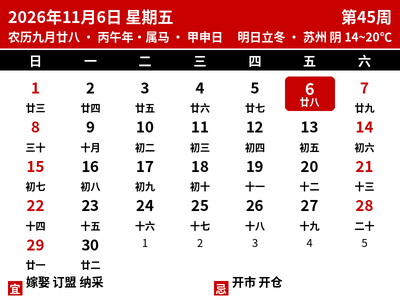
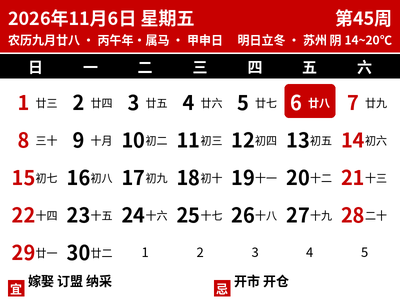
host: enlarge calendar fonts; lunar beside number; band text auto-fit

diff --git a/host/calendar_card.py b/host/calendar_card.py
@@ -139,17 +139,16 @@ def draw():
     weekend = date.weekday() >= 5
 
     # ---------- header: red band (2 lines, white text) ----------
-    BAND_H = 48
+    BAND_H = 52
     R(0, 0, W, BAND_H, RED)
     wd_s = f"星期{WEEKDAYS[date.weekday()]}"
-    T(8, 16, f"{date.year}年{date.month}月{date.day}日 {wd_s}", 16, WHITE,
+    T(8, 17, f"{date.year}年{date.month}月{date.day}日 {wd_s}", 18, WHITE,
       anchor="lm")
-    T(W - 8, 16, f"第{iso[1]}周", 16, WHITE, anchor="rm")
+    T(W - 8, 17, f"第{iso[1]}周", 18, WHITE, anchor="rm")
     ly_gz = today_lunar.getYearInGanZhi()
     dy_gz = today_lunar.getDayInGanZhi()
-    T(8, 36, f"农历{today_lunar.getMonthInChinese()}月{today_lunar.getDayInChinese()}"
-             f" · {ly_gz}年·属{ZODIAC[ZHI.index(ly_gz[1])]} · {dy_gz}日",
-      12, WHITE, anchor="lm")
+    left2 = (f"农历{today_lunar.getMonthInChinese()}月{today_lunar.getDayInChinese()}"
+             f" · {ly_gz}年·属{ZODIAC[ZHI.index(ly_gz[1])]} · {dy_gz}日")
     term_s = ""
     nq = today_lunar.getNextJieQi(True)
     if nq:
@@ -161,25 +160,33 @@ def draw():
     wx = None if a.no_weather else get_weather(a.city)
     wx_s = f"{wx['city']} {wx['desc']} {wx['lo']}~{wx['hi']}℃" if wx else ""
     right2 = " · ".join(x for x in (term_s, wx_s) if x)
+    fsz = 13
+    while fsz > 10 and \
+            (d.textlength(right2, font=font(fsz, True)) +
+             d.textlength(left2, font=font(fsz, True))) / SCALE > W - 24:
+        fsz -= 1
+    T(8, 39, left2, fsz, WHITE, anchor="lm")
     if right2:
-        T(W - 8, 36, right2, 12, WHITE, anchor="rm")
+        T(W - 8, 39, right2, fsz, WHITE, anchor="rm")
 
     # ---------- weekday band: black, white ----------
     WB_Y = BAND_H + 2
     colw = (W - 16) / 7.0
-    R(0, WB_Y, W, WB_Y + 20, BLACK)
+    R(0, WB_Y, W, WB_Y + 24, BLACK)
     for i, ch in enumerate(HEADERS):
         cx = 8 + colw * i + colw / 2
-        T(cx, WB_Y + 10, ch, 13, WHITE, anchor="mm")
+        T(cx, WB_Y + 12, ch, 15, WHITE, anchor="mm")
 
     # ---------- month grid ----------
     first = date.replace(day=1)
     start = first - dt.timedelta(days=(first.weekday() + 1) % 7)  # Sunday
     last = (first.replace(day=_cal.monthrange(date.year, date.month)[1]))
     rows_needed = ((last - start).days // 7) + 1
-    grid_y = WB_Y + 24
-    foot_h = 24
-    rowh = (H - foot_h - 6 - grid_y) / rows_needed
+    grid_y = WB_Y + 28
+    foot_h = 26
+    rowh = (H - foot_h - 4 - grid_y) / rows_needed
+    num_font = 20 if rows_needed <= 5 else 18
+    lunar_font = 13 if rows_needed <= 5 else 12
 
     for r in range(rows_needed):
         for c in range(7):
@@ -191,35 +198,41 @@ def draw():
             cl = Solar.fromYmd(cell.year, cell.month, cell.day).getLunar()
 
             if is_today:
-                # red filled cell, white number + white lunar
-                m = 2.5
+                # red filled cell, white number + lunar beside it
+                m = 2
                 d.rounded_rectangle(
                     [(8 + colw * c + m) * SCALE, (top + m) * SCALE,
                      (8 + colw * (c + 1) - m) * SCALE, (top + rowh - m) * SCALE],
                     radius=4 * SCALE, fill=RED)
-                T(cx, top + rowh * 0.36, str(cell.day), 16, WHITE, anchor="mm")
-                T(cx, top + rowh * 0.70, lunar_text(cl), 10, WHITE, anchor="mm")
+                half = colw / 2
+                T(cx - half / 2, top + rowh / 2, str(cell.day), num_font,
+                  WHITE, anchor="mm")
+                T(cx - half / 2 + 12, top + rowh / 2 + 1, lunar_text(cl),
+                  lunar_font - 2, WHITE, anchor="lm")
             elif in_month:
                 col = RED if cell.weekday() >= 5 else BLACK
-                T(cx, top + 2, str(cell.day), 15, col, anchor="ma")
-                T(cx, top + rowh - 13, lunar_text(cl), 10,
-                  BLACK, anchor="ma", bold=True)
+                half = colw / 2
+                T(cx - half / 2 + 2, top + rowh / 2, str(cell.day), num_font,
+                  col, anchor="mm")
+                T(cx - half / 2 + 14, top + rowh / 2 + 1, lunar_text(cl),
+                  lunar_font - 2, BLACK, anchor="lm", bold=False)
             else:
-                T(cx, top + 3, str(cell.day), 11, BLACK, anchor="ma", bold=False)
+                T(cx, top + rowh / 2, str(cell.day), 13, BLACK, anchor="mm",
+                  bold=False)
 
     # ---------- footer: real almanac yi/ji ----------
-    fy = H - foot_h + 1
+    fy = H - foot_h + 2
 
     def chip(x, y, ch):
-        R(x, y, x + 14, y + 14, RED)
-        T(x + 7, y + 7, ch, 11, WHITE, anchor="mm")
+        R(x, y, x + 16, y + 16, RED)
+        T(x + 8, y + 8, ch, 12, WHITE, anchor="mm")
 
     yi = " ".join(today_lunar.getDayYi()[:3])
     ji = " ".join(today_lunar.getDayJi()[:2])
     chip(8, fy + 4, "宜")
-    T(26, fy + 4, yi, 12, anchor="lm")
+    T(28, fy + 4, yi, 13, anchor="lm")
     chip(214, fy + 4, "忌")
-    T(232, fy + 4, ji, 12, anchor="lm")
+    T(234, fy + 4, ji, 13, anchor="lm")
 
     out = a.out or f"examples/calendar_{date.isoformat()}.png"
     img = img.resize((W, H), Image.Resampling.LANCZOS)
